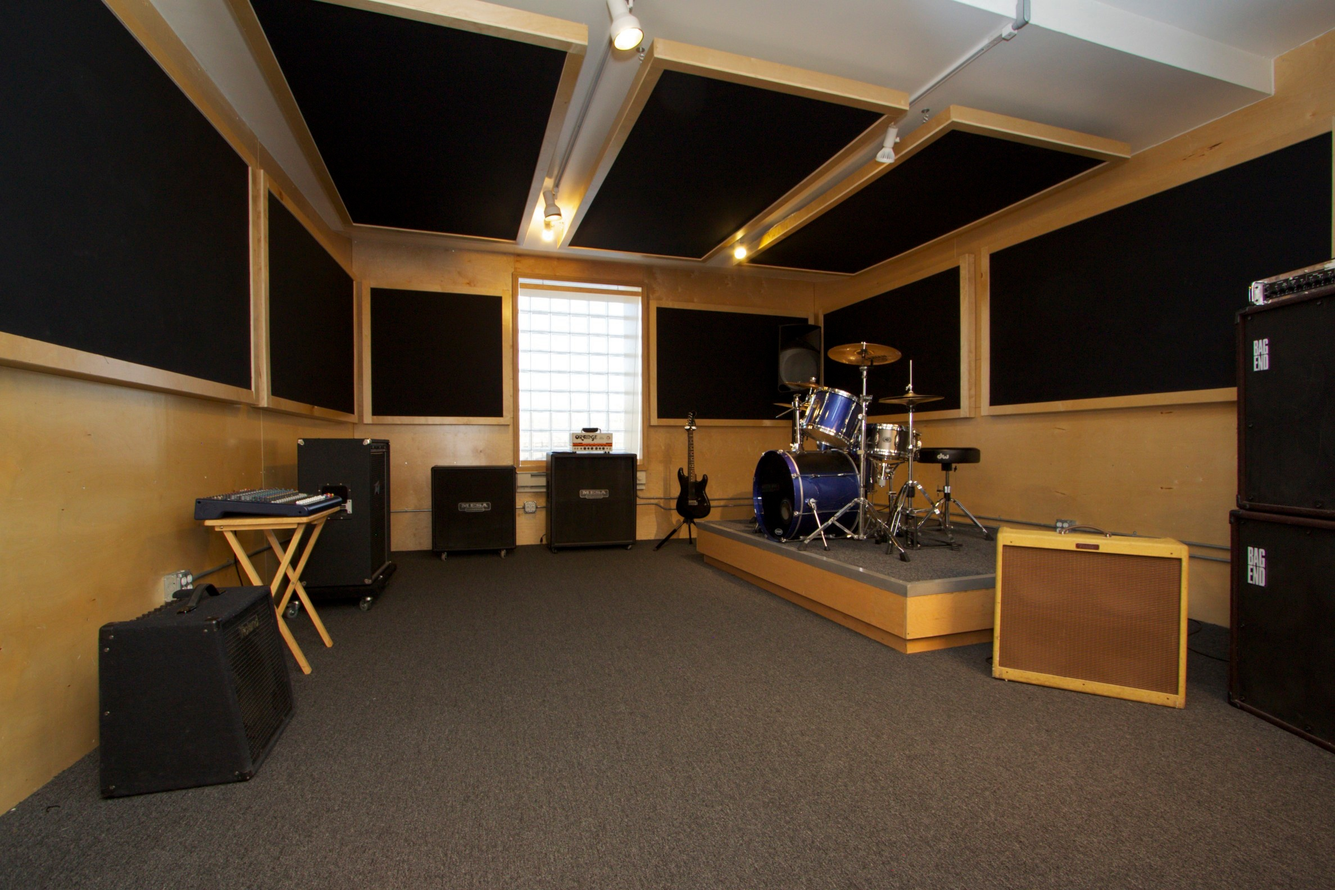
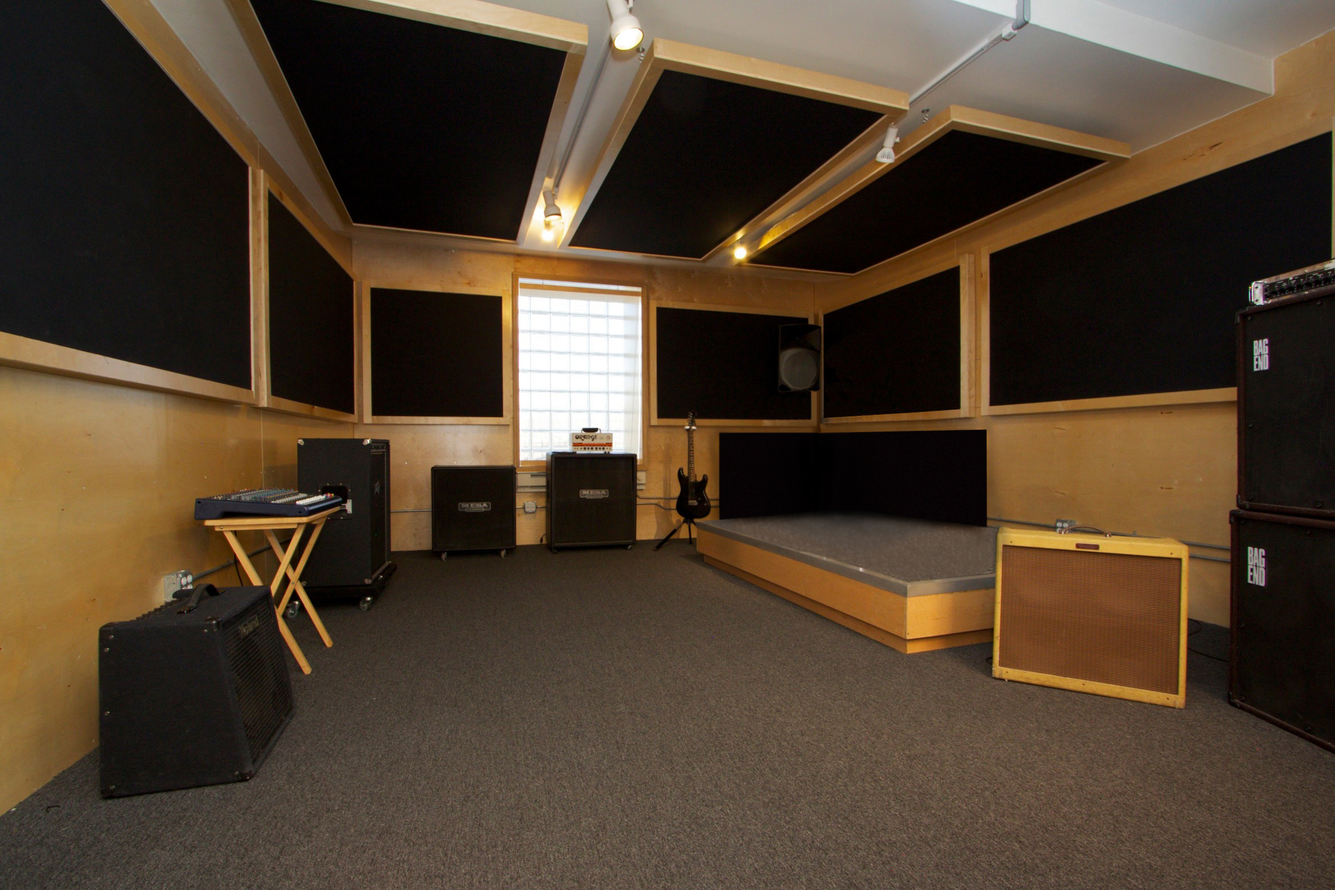
Nuevo Background

Changed region(s): [[0.5295, 0.3712, 0.7786, 0.6496]]

diff --git a/Pages/Play.xaml.cs b/Pages/Play.xaml.cs
@@ -66,7 +66,7 @@
         //DrumKit variables
         private Drum bass;
         private Drum snare;
-        private Drum hihat;
+        private Hihat hihat;
         /*****************************************************************************************************************/
 
 
@@ -184,10 +184,10 @@
             Reduction = 2;
 
             snare = new Drum(
-                new Rect((this.displayWidth / 2) + (bass.Width / 3),
+                new Rect((this.displayWidth / 2) + (Image.Width / 8),
                           this.displayHeight - ((bass.Height) + (Image.Height / Reduction)),
                           Image.Width / Reduction, Image.Height / Reduction),
-                new Rect((this.displayWidth / 2) + (bass.Width / 3),
+                new Rect((this.displayWidth / 2) + (Image.Width / 8),
                           this.displayHeight - ((bass.Height) + (Image.Height / Reduction)),
                           Image.Width / Reduction, Image.Height / Reduction / 2),
                 player,
@@ -200,21 +200,24 @@
             //Hihat
             Image = new BitmapImage(new Uri("pack://application:,,,/Images/Hihat.png", UriKind.Absolute));
             player.Open(new Uri("Sounds/Hihat.wav", UriKind.Relative));
-            Reduction = 5.6;
+            Reduction = 5;
 
-            hihat = new Drum(
-                new Rect((this.displayWidth / 2) + bass.Width + (Image.Width / Reduction),
-                          this.displayHeight - (Image.Height / Reduction / 15),
+            hihat = new Hihat(
+                new Rect((this.displayWidth / 2) - (bass.Width / 2) - (Image.Width / Reduction),
+                          this.displayHeight - (Image.Height / Reduction),
                           Image.Width / Reduction, Image.Height / Reduction),
-                new Rect((this.displayWidth / 4) + (bass.Width / 10),
-                          this.displayHeight - ((bass.Height * 2) + (snare.Height / 5)),
-                          snare.Width, snare.Height / 2),
+                new Rect((this.displayWidth / 2) - (bass.Width / 2) - (Image.Width / Reduction) + 8,
+                          this.displayHeight - (Image.Height / Reduction) + (Image.Height / Reduction / 11),
+                          Image.Width / Reduction - 16, Image.Height / Reduction /7),
+                new Rect((this.displayWidth / 2) - (bass.Width / 2) - (Image.Width / Reduction / 2),
+                          this.displayHeight - (Image.Height / Reduction / 5),
+                          Image.Width / Reduction / 5, Image.Height / Reduction / 5),
+                player,
+                player,
                 player,
                 Image,
-                Reduction,
-                1
+                Reduction
             );
-
             /*****************************************************************************************************************/
         }
 
